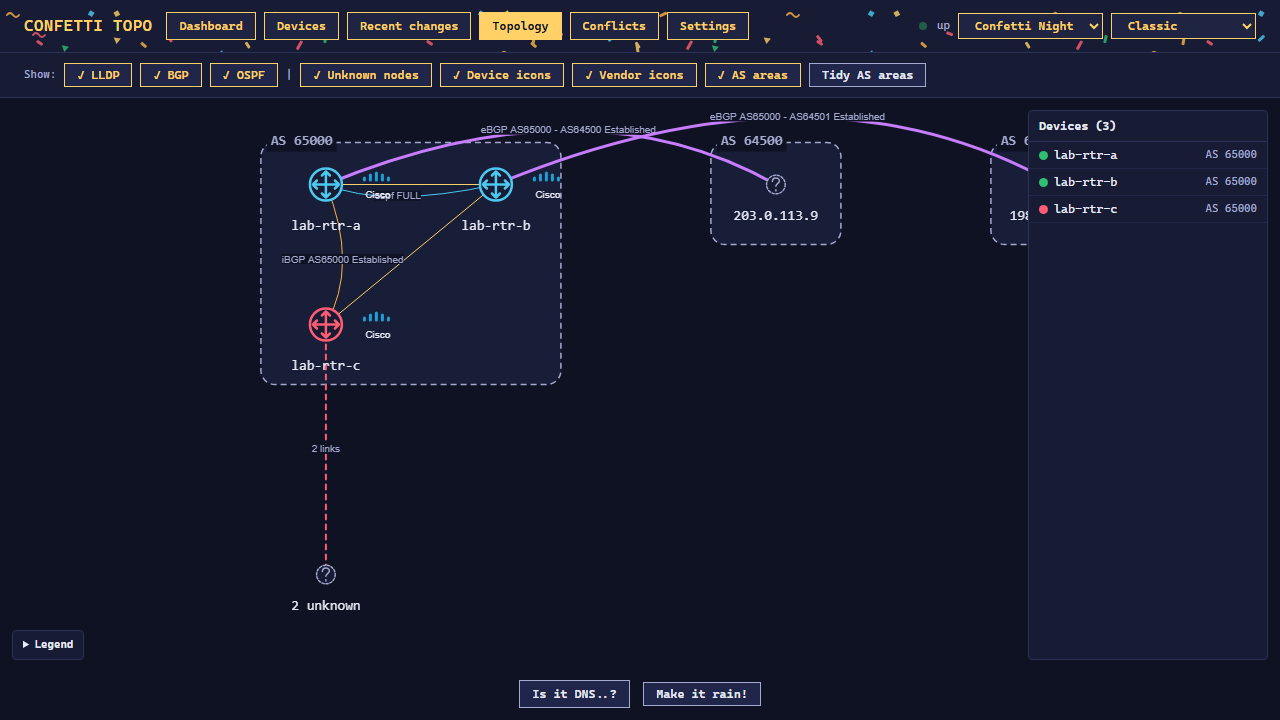
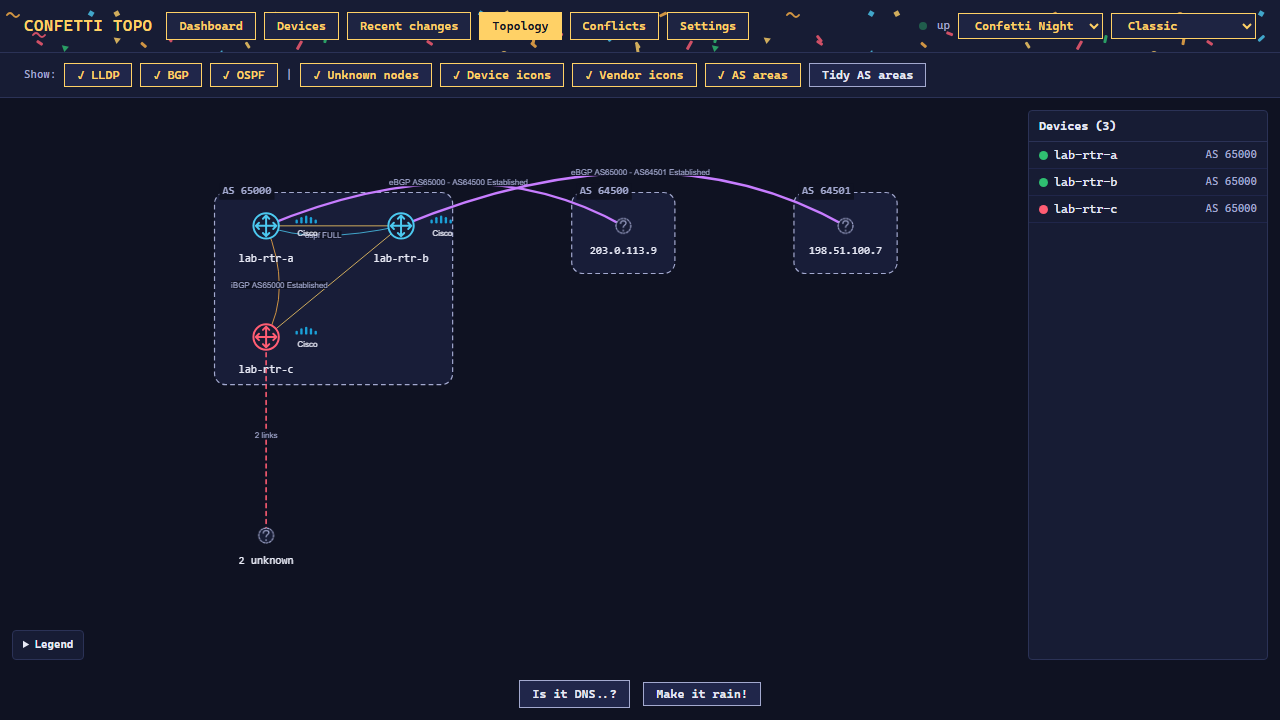
Topology: fit the map beside the device list and legend; README text and images re-recorded

diff --git a/topo/templates/topology.html b/topo/templates/topology.html
@@ -320,13 +320,21 @@ function settled() {
     // The default first layout: a map with no saved places at all gets one block per BGP AS (saved places are never moved).
     if (tidyOnSettle) { tidyOnSettle = false; tidyAsAreas(); }
     savePositions(nodeSet.getIds());
-    network.fit();
-    // The legend sits over the left of the map: move the fitted picture right by half its width.
-    var legend = document.querySelector('.legend-box');
-    if (legend && legend.offsetWidth) {
-        network.moveTo({ position: network.getViewPosition(), scale: network.getScale(), offset: { x: legend.offsetWidth / 2, y: 0 } });
-    }
+    fitMap();
     centerPending();
+}
+
+// Fit the whole map in the part of the page the panels leave free: the legend sits over the left of the map (shift the
+// picture right by half its width) and the Devices list takes the right edge (shrink the picture and shift it left).
+function fitMap() {
+    network.fit();
+    var legend = document.querySelector('.legend-box');
+    var list = document.getElementById('dev-list');
+    var legendW = legend && legend.offsetWidth ? legend.offsetWidth : 0;
+    var listW = list && list.offsetWidth ? list.offsetWidth + 24 : 0;   // 12px edge gap on each side
+    var wrapW = document.getElementById('net').offsetWidth || 1;
+    network.moveTo({ position: network.getViewPosition(), scale: network.getScale() * Math.max(0.3, (wrapW - listW) / wrapW),
+                     offset: { x: (legendW - listW) / 2, y: 0 } });
 }
 
 // /topology?device=<id> (from the Recent changes page): select that device and centre on it, once.
@@ -401,7 +409,7 @@ function load() {
         };
         network = new vis.Network(container, { nodes: nodeSet, edges: edgeSet }, options);
         if (anyFree) { network.once('stabilizationIterationsDone', settled); }
-        else { setTimeout(centerPending, 100); }
+        else { setTimeout(function () { fitMap(); centerPending(); }, 100); }
         network.on('dragEnd', function (params) {
             if (params.nodes.length) { savePositions(params.nodes); }
         });
@@ -627,7 +635,7 @@ function tidyAsAreas() {
     var ry = y + rowH + GAP;
     rest.forEach(function (id, i) { network.moveNode(id, x0 + (i % 8) * CW, y0 + ry + Math.floor(i / 8) * CH); });
     savePositions(nodeSet.getIds());
-    network.fit();
+    fitMap();
     network.redraw();
 }
 
@@ -1024,7 +1032,7 @@ function openContextMenu(id, x, y) {
     } else if (!node) {
         spec = { title: 'Map', items: [
             { label: 'Show all', action: showAllLayers },
-            { label: 'Reset view', action: function () { network.fit(); } },
+            { label: 'Reset view', action: fitMap },
             { label: 'Tidy AS areas', action: tidyAsAreas },
             { label: 'Re-arrange', action: rearrange },
         ] };

diff --git a/README.md b/README.md
@@ -22,7 +22,7 @@ project [confetti-traffic](https://github.com/orneh24/confetti-traffic).
   A cable or session that both routers report is drawn once. A neighbor that is not a known device shows
   as a dashed "ghost" node, so nothing is silently dropped. A BGP/OSPF session that is not Established /
   FULL is red and dashed. A BGP session inside one AS (iBGP) is a thin yellow line and one between two ASes (eBGP)
-  a thick purple line, and an "AS areas" toggle draws a box around the routers of each AS. Unknown nodes that hang off one router are grouped into a single "N unknown"
+  a thick purple line, and an "AS areas" toggle draws a box around the routers of each AS ("Tidy AS areas" moves the routers so each AS has its own block; a new map starts that way). A list of all known devices on the right selects a device on the map when clicked. Unknown nodes that hang off one router are grouped into a single "N unknown"
   node (double-click to open it). The layout stands still and is saved on the server, so everyone sees the
   same map (right-click the background and choose Re-arrange to start over). An LLDP link shows its ports
   on hover or when selected.
@@ -44,7 +44,7 @@ project [confetti-traffic](https://github.com/orneh24/confetti-traffic).
 - **Reachability.** Every device is pinged every 30 seconds; a router that stops answering is outlined red
   on the graph.
 - **Events.** Neighbor, peer and interface changes, OS changes and devices going unreachable are listed on the
-  dashboard, on each device page and on the Recent changes page. There is no alerting; see the roadmap.
+  dashboard, on each device page and on the Recent changes page (filters, sortable, Before and After states coloured green, yellow or red). There is no alerting; see the roadmap.
 - **Metrics.** `GET /metrics` serves Prometheus text.
 - **Look.** Seven colour themes (or Shuffle) and five layouts, picked in the header.
 
